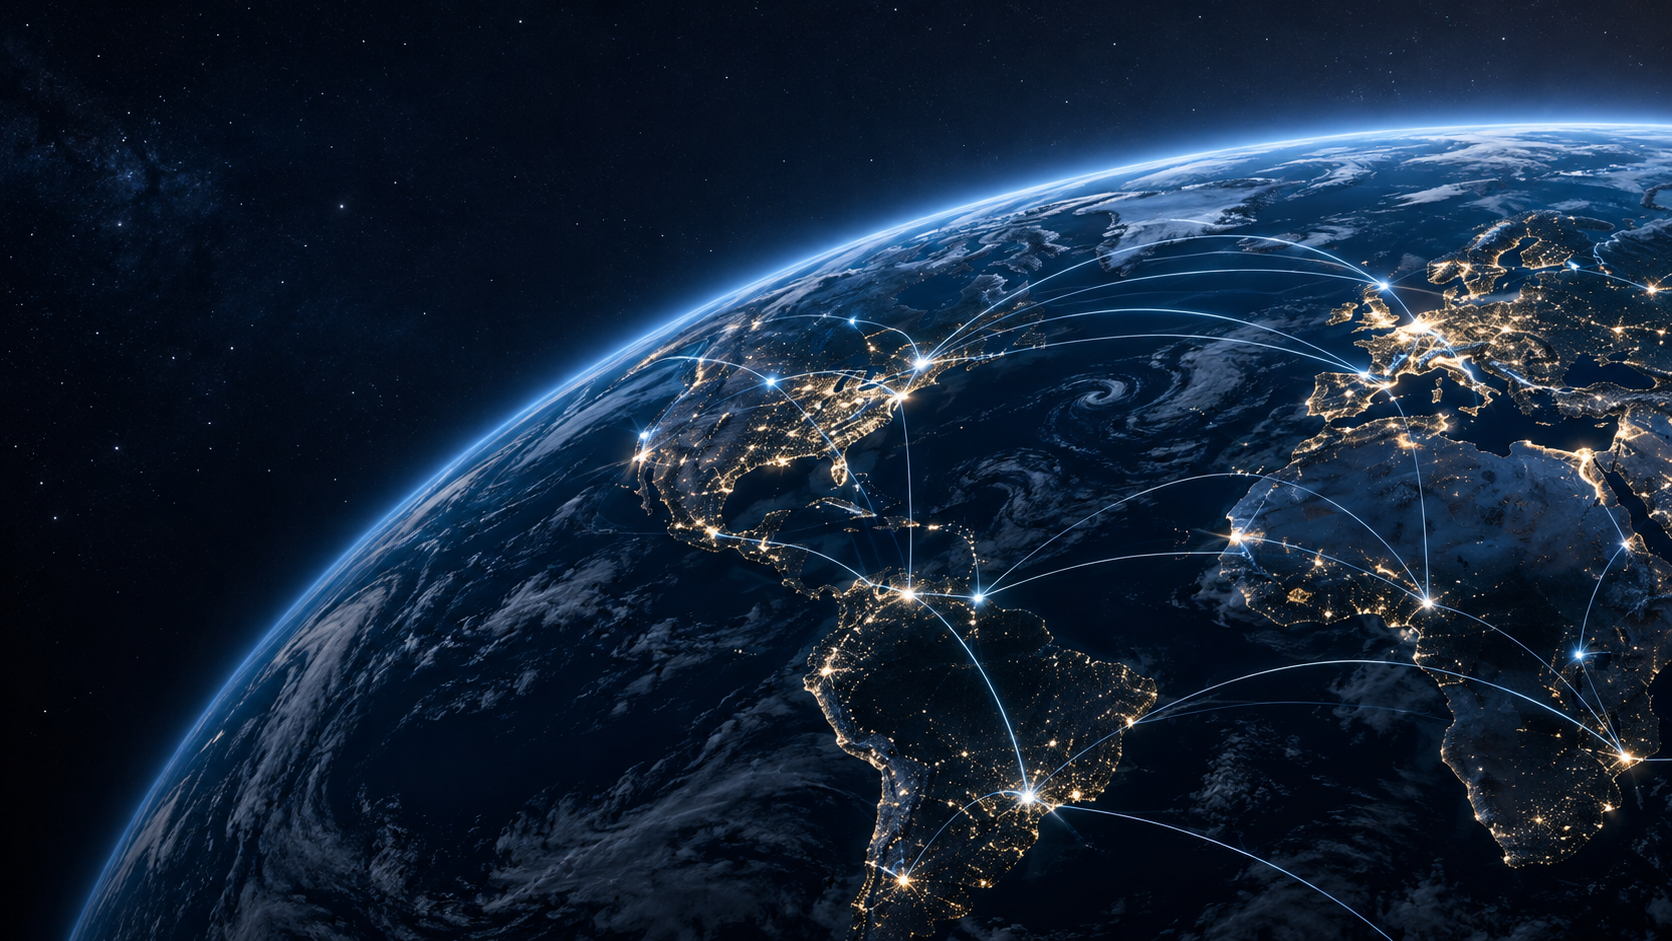
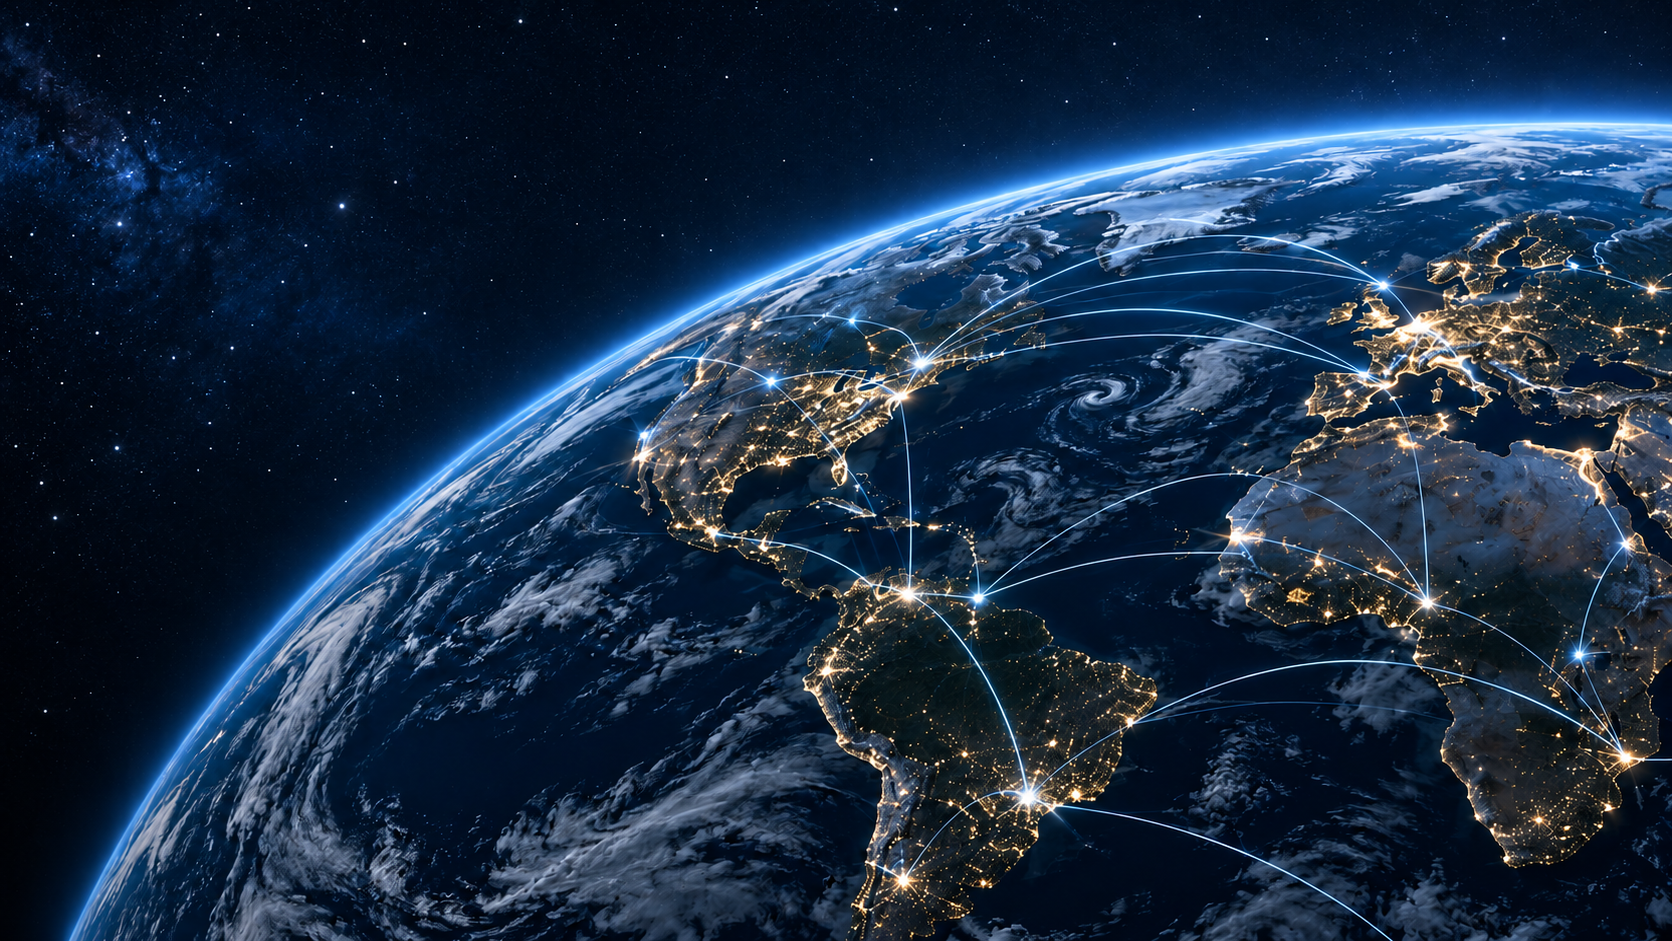
design update

diff --git a/src/services.jsx b/src/services.jsx
@@ -354,30 +354,91 @@ export default function Services() {
           padding: 150px 0 64px;
         }
 
-        .sv-main .sv-hero-image {
+        .sv-main .sv-hero-background {
           position: absolute;
           inset: 0;
+          z-index: 0;
+          display: block;
+          pointer-events: none;
+          user-select: none;
+        }
+
+        .sv-main .sv-hero-background img {
+          display: block;
           width: 100%;
           height: 100%;
           object-fit: cover;
           object-position: center;
-          z-index: -2;
         }
 
-        .sv-main .sv-hero::after {
+        .sv-main .sv-hero-background::before {
           content: '';
           position: absolute;
           inset: 0;
-          z-index: -1;
+          z-index: 1;
+          pointer-events: none;
           background:
             linear-gradient(
               90deg,
-              #091525E8 0%,
-              #09152595 55%,
-              #09152535 100%
+              rgba(18, 19, 20, .99) 0%,
+              rgba(20, 21, 22, .97) 17%,
+              rgba(23, 24, 25, .87) 34%,
+              rgba(25, 26, 27, .55) 49%,
+              rgba(25, 26, 27, .14) 68%,
+              rgba(25, 26, 27, 0) 82%
             ),
-            linear-gradient(0deg, #091525B8, transparent 65%);
+            linear-gradient(
+              180deg,
+              rgba(5, 19, 33, .08) 0%,
+              rgba(4, 17, 30, .02) 49%,
+              rgba(4, 17, 30, .18) 69%,
+              rgba(4, 17, 30, .60) 100%
+            );
+        }
+
+        .sv-main .sv-hero-background::after {
+          content: '';
+          position: absolute;
+          inset: auto 0 0 0;
+          height: 36%;
+          z-index: 2;
           pointer-events: none;
+          background:
+            radial-gradient(
+              110% 115% at 20% 130%,
+              rgba(15, 43, 70, .56) 0 34%,
+              transparent 34.4%
+            ),
+            linear-gradient(
+              180deg,
+              rgba(5, 18, 31, 0) 0%,
+              rgba(5, 18, 31, .34) 48%,
+              rgba(5, 18, 31, .72) 100%
+            );
+        }
+
+        @media (max-width: 900px) {
+          .sv-main .sv-hero-background::before {
+            background:
+              linear-gradient(
+                90deg,
+                rgba(18, 19, 20, .98) 0%,
+                rgba(22, 23, 24, .91) 46%,
+                rgba(24, 25, 26, .30) 76%,
+                rgba(24, 25, 26, .08) 100%
+              ),
+              linear-gradient(
+                180deg,
+                rgba(4, 17, 30, .05) 0%,
+                rgba(4, 17, 30, .10) 50%,
+                rgba(4, 17, 30, .82) 100%
+              );
+          }
+        }
+
+        .sv-main .sv-hero-layout {
+          position: relative;
+          z-index: 3;
         }
 
         .sv-main .sv-hero-layout {
@@ -942,14 +1003,16 @@ export default function Services() {
 
       <main className="sv-main">
         <section className="sv-hero">
-          <img
-            className="sv-hero-image"
-            src="/services-hero.png"
-            alt=""
-            aria-hidden="true"
-            fetchPriority="high"
-            decoding="async"
-          />
+          <picture className="sv-hero-background" aria-hidden="true">
+            <source media="(min-width: 1024px)" srcSet="/hero-desktop.png" />
+            <img
+              src="/hero-mobile.png"
+              alt=""
+              fetchPriority="high"
+              decoding="async"
+              draggable={false}
+            />
+          </picture>
 
           <div className="sv-container sv-hero-layout">
             <div>
@@ -979,7 +1042,7 @@ export default function Services() {
               </a>
             </div>
 
-            
+
           </div>
         </section>
 

diff --git a/src/sections/Hero.jsx b/src/sections/Hero.jsx
@@ -161,17 +161,81 @@ export default function Hero({ mobileMenuOpen }) {
               );
           }
         }
+          @media (min-width: 1024px) {
+  #home {
+    display: block;
+    min-height: auto;
+    padding: 150px 0 64px;
+  }
+
+  #home .plexura-home-container {
+    width: min(calc(100% - 48px), 1200px);
+    max-width: 1200px;
+    margin-inline: auto;
+    padding-inline: 0;
+
+    display: grid;
+    grid-template-columns: minmax(0, 1.5fr) minmax(0, 0.7fr);
+    column-gap: 32px;
+  }
+
+  /* Meta strip, heading, cube, summary, and buttons:
+     same left-column width as Services. */
+  #home .plexura-home-container > * {
+    grid-column: 1;
+    min-width: 0;
+  }
+
+  #home .plexura-home-container > :first-child {
+    margin-bottom: 16px;
+  }
+
+  #home .plexura-heading-group {
+    width: 100%;
+    max-width: 100%;
+    margin: 0;
+  }
+
+  #home .plexura-heading-line {
+    white-space: normal;
+  }
+
+  #home .plexura-cube-slot {
+    width: 100%;
+    max-width: 320px;
+    height: 280px;
+    margin: 0;
+  }
+
+  #home .plexura-home-container > .border-t {
+    margin-top: 24px;
+    padding-top: 0;
+    border-top: 0;
+    gap: 24px;
+  }
+
+  #home .plexura-home-container > .border-t > p {
+    max-width: 630px;
+  }
+
+  /* Keep the technology ribbon across the container. */
+  #home .plexura-home-container > :last-child {
+    grid-column: 1 / -1;
+    margin-top: 64px;
+    padding-bottom: 0;
+  }
+}
       `}</style>
 
       {/* Background */}
       <picture className="plexura-hero-background" aria-hidden="true">
         <source
           media="(min-width: 1024px)"
-          srcSet="/hero-desktop.png"
+          srcSet="/services-hero.png"
         />
 
         <img
-          src="/hero-mobile.png"
+          src="/mobile-hero-services.png"
           alt=""
           fetchPriority="high"
           decoding="async"
@@ -179,7 +243,7 @@ export default function Hero({ mobileMenuOpen }) {
         />
       </picture>
 
-      <div className="max-w-7xl mx-auto px-6 w-full relative z-10">
+      <div className="plexura-home-container max-w-7xl mx-auto px-6 w-full relative z-10">
         {/* Meta strip */}
         <motion.div
           initial={{ opacity: 0, y: -12 }}
@@ -259,9 +323,7 @@ export default function Hero({ mobileMenuOpen }) {
           <p className="m-0 text-lg md:text-base text-[#B7BDC4] leading-relaxed max-w-xl text-center md:text-left">
             Plexura Designs and Develops High-Performance Websites and
             Delivers IT Consulting Across End-User Hardware, Workstation
-            Setup, Enterprise Infrastructure &amp; Networking. Our Cloud
-            and AI Solutions Help Businesses Modernize Operations,
-            Improve Efficiency, and Scale With Confidence.
+            Setup, Enterprise Infrastructure &amp; Networking.
           </p>
 
           <div className="flex flex-wrap justify-center md:justify-start items-center gap-4">

diff --git a/src/sections/Navbar.jsx b/src/sections/Navbar.jsx
@@ -208,13 +208,7 @@ export default function Navbar({
                 <span className="absolute bottom-0 left-0 w-0 h-0.5 bg-[#EA580C] group-hover:w-full transition-all duration-300" />
               </button>
 
-              <button
-                onClick={() => goToHomeSection('team')}
-                className="text-[#F4FAFB] hover:text-[#EA580C] transition-colors duration-200 relative group"
-              >
-                Our Team
-                <span className="absolute bottom-0 left-0 w-0 h-0.5 bg-[#EA580C] group-hover:w-full transition-all duration-300" />
-              </button>
+          
 
               <button
   onClick={() => goToHomeSection('contact')}
